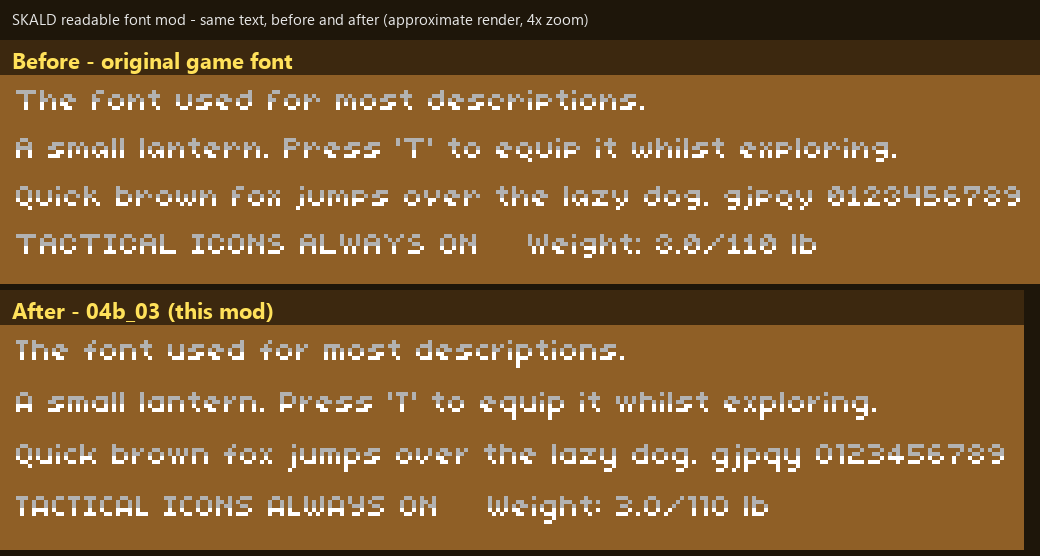
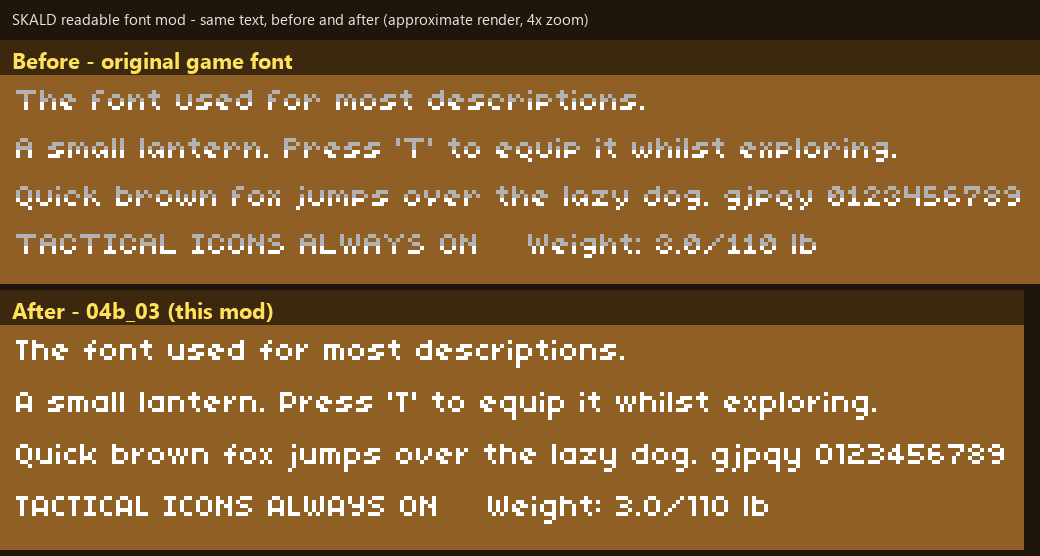
Solid glyph colour by default (no grey upper half); --two-tone keeps the original shading
The original font shades the upper rows grey, which lowers contrast. The patcher now
draws every glyph in one colour: white for the grey/white fonts, yellow for the yellow
ones, black for the outline atlas. Comparison image and README updated.

diff --git a/src/patch_font.py b/src/patch_font.py
@@ -13,7 +13,7 @@ If the atlases do not look like the expected layout, it refuses and changes noth
 """
 import argparse, collections, glob, hashlib, json, os, shutil, subprocess, sys, time
 
-VERSION = "1.1.0"
+VERSION = "1.2.0"
 CELL, COLS, ROWS = 8, 9, 10
 ORIG_SIZE = (71, 79)                                   # 9x10 cells of 7x7 + 1px separators
 NEW_SIZE = (COLS * CELL + COLS - 1, ROWS * CELL + ROWS - 1)
@@ -142,13 +142,22 @@ def glyph_pixels(ch, mode):
     return {(x, y) for y, row in enumerate(rows) for x, c in enumerate(row) if c == "#"}
 
 
+TWO_TONE = False       # --two-tone: keep the original's grey/yellow upper half + white lower half
+
+
 def colours(img):
-    """upper / lower colour of the original glyphs: upper rows grey / yellow / black, lower rows white"""
+    """(upper, lower) glyph colours. The original font is two-tone: upper rows grey / yellow / black, lower rows white.
+    By default one solid colour is used (white for the grey/white fonts, the yellow for the yellow ones): easier to read."""
     c = collections.Counter(p for p in img.getdata()
                             if p[3] > 0 and p != SEP and not (p[0] > 200 and p[2] > 200 and p[1] < 80))
     non_white = [k for k, _ in c.most_common() if k[:3] != (255, 255, 255)]
     upper = (non_white[0][:3] + (255,)) if non_white else WHITE
-    return upper, (WHITE if WHITE in c else upper)
+    lower = WHITE if WHITE in c else upper
+    if not TWO_TONE:
+        grey = upper[0] == upper[1] == upper[2]
+        solid = WHITE if (grey and WHITE in c) else upper      # black outline atlas stays black
+        return solid, solid
+    return upper, lower
 
 
 def build_atlas(old, mode):
@@ -269,7 +278,10 @@ def main():
     g.add_argument("--apply", action="store_true")
     g.add_argument("--restore", action="store_true")
     ap.add_argument("--force", action="store_true")
+    ap.add_argument("--two-tone", action="store_true", help="keep the original grey/white two-tone shading")
     a = ap.parse_args()
+    global TWO_TONE
+    TWO_TONE = a.two_tone
     interactive = not (a.apply or a.restore)
 
     say("SKALD Readable Font Mod %s" % VERSION)

diff --git a/README.md b/README.md
@@ -24,6 +24,7 @@ Tested on the GOG build "Launch 1.0.5" (the only one I have). Reports for other 
 
 ## Notes
 
+- Glyphs are drawn in **one solid colour** (the original font shades the upper half grey, which hurts readability). Want the original shading back? Run with `--two-tone`.
 - Only the **small** text is changed; the large gothic titles and the Medium/Big fonts are not.
 - English text only (no translation).
 - The exe is **unsigned**, so SmartScreen or an antivirus may warn. Everything is open source: run the same code with Python instead – `pip install UnityPy`, then `python src/patch_font.py --apply`. Release notes list the exe's SHA-256.
